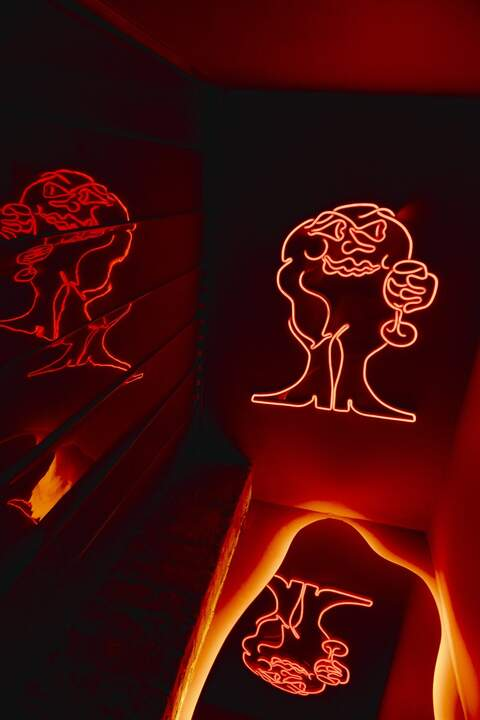
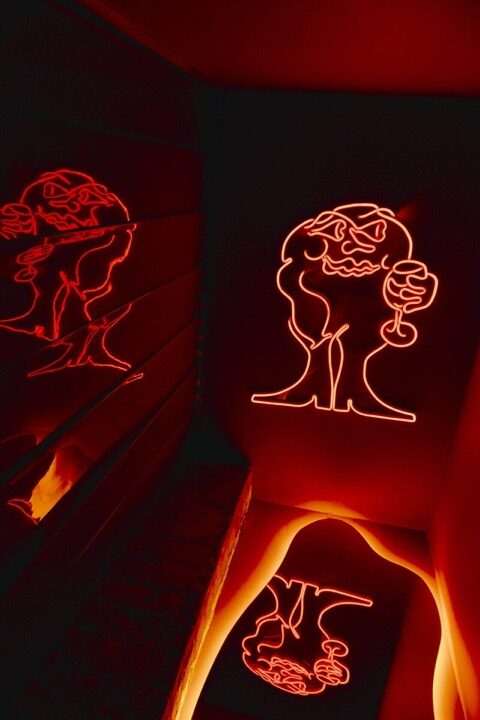
Conceito com frase NATURAL É SEXY e melhorias de galeria.
Overlay tipográfico na parede, menu CTA separado, letter-spacing global,
índice da galeria mais legível e crop por object-position nos slides de DJs.

Changed region(s): [[0.5312, 0.9167, 0.625, 0.9472], [0.6562, 0.9167, 0.7188, 0.9472], [0.125, 0.2444, 0.1562, 0.275]]

diff --git a/css/styles.css b/css/styles.css
@@ -15,7 +15,11 @@
   src: url('../public/fonts/AwesomeSerifItalic-Tall.otf') format('opentype');
   font-weight: 400; font-style: italic; font-display: swap;
 }
-
+@font-face {
+  font-family: 'Awesome Serif Italic Medium Tall';
+  src: url('../public/fonts/AwesomeSerifItalic-MediumTall.otf') format('opentype');
+  font-weight: 500; font-style: italic; font-display: swap;
+}
 :root {
   --roxo:         #4A0049;
   --rosa:         #FF888B;
@@ -30,6 +34,7 @@
   --f-display:    'Bandit Condensed', 'Arial Narrow', sans-serif;
   --f-serif:      'Awesome Serif', Georgia, serif;
   --f-italic:     'Awesome Serif Italic', Georgia, serif;
+  --f-italic-medium: 'Awesome Serif Italic Medium Tall', 'Awesome Serif Italic', Georgia, serif;
 
   --ease:         cubic-bezier(0.65, 0, 0.35, 1);
   --ease-fade:    cubic-bezier(0.45, 0.05, 0.55, 0.95);
@@ -57,6 +62,7 @@ body {
   font-family: var(--f-serif);
   font-weight: 400;
   line-height: 1.55;
+  letter-spacing: 0.02em;
   overflow-x: hidden;
 }
 img, svg { display: block; max-width: 100%; }
@@ -75,7 +81,7 @@ a:focus-visible, button:focus-visible {
 .eyebrow {
   font-family: var(--f-display);
   font-size: 0.72rem;
-  letter-spacing: 0.08em;
+  letter-spacing: 0.10em;
   text-transform: uppercase;
   color: var(--rosa);
 }
@@ -287,23 +293,37 @@ a:focus-visible, button:focus-visible {
   flex-direction: column;
   gap: 0.5rem;
   align-items: flex-end;
+  padding: 0.6rem 0.35rem 0.6rem 1.75rem;
+  background: linear-gradient(to left, rgba(10, 10, 10, 0.32) 0%, rgba(10, 10, 10, 0.1) 55%, transparent 100%);
+  border-top-right-radius: var(--radius);
+  border-bottom-right-radius: var(--radius);
+  overflow: hidden;
+  pointer-events: none;
 }
 
 .gi-btn {
   font-family: var(--f-serif);
   font-size: 0.8rem;
-  color: rgba(248, 241, 240, 0.35);
+  color: rgba(248, 241, 240, 0.92);
+  text-shadow:
+    0 1px 3px rgba(10, 10, 10, 0.6),
+    0 0 10px rgba(10, 10, 10, 0.35);
   transition: color var(--dur) var(--ease);
   padding: 0.1rem 0;
+  pointer-events: auto;
 }
-.gi-btn.is-active,
-.gi-btn:hover {
-  color: var(--ink);
+.gi-btn:hover,
+.gi-btn:focus-visible {
+  color: var(--rosa);
 }
 .gi-btn.is-active {
+  color: var(--ink);
   text-decoration: underline;
   text-underline-offset: 3px;
   text-decoration-color: var(--rosa);
+  text-shadow:
+    0 1px 4px rgba(10, 10, 10, 0.65),
+    0 0 12px rgba(10, 10, 10, 0.4);
 }
 
 .gallery-frame {
@@ -348,6 +368,18 @@ a:focus-visible, button:focus-visible {
 }
 .frame-slideshow img.is-active {
   opacity: 1;
+}
+@media (min-aspect-ratio: 3/2) {
+  .frame-slideshow img[data-object-position],
+  .frame-slideshow__placeholder[data-object-position] {
+    object-position: var(--slide-object-position, center);
+  }
+}
+@media (min-width: 1024px) and (min-aspect-ratio: 4/3) {
+  .gallery-frame[data-slug="djs"] .frame-slideshow img[data-object-position],
+  .gallery-frame[data-slug="djs"] .frame-slideshow__placeholder[data-object-position] {
+    object-position: var(--slide-object-position, center);
+  }
 }
 .frame-media img {
   width: 100%; height: 100%;
@@ -424,6 +456,28 @@ a:focus-visible, button:focus-visible {
   height: 100%;
   object-fit: cover;
   object-position: center;
+}
+.conceito__overlay {
+  position: absolute;
+  inset: 0;
+  z-index: 1;
+  display: flex;
+  align-items: center;
+  justify-content: center;
+  padding: clamp(1rem, 4vw, 2rem) var(--pad-h);
+  pointer-events: none;
+}
+.conceito__phrase {
+  font-family: var(--f-italic-medium);
+  font-style: italic;
+  font-weight: 500;
+  font-size: clamp(2rem, 6vw, 3.5rem);
+  line-height: 1.1;
+  letter-spacing: 0.16em;
+  text-transform: uppercase;
+  color: #00341c;
+  text-align: center;
+  margin: 0;
 }
 
 /* MENU */
@@ -529,7 +583,7 @@ a:focus-visible, button:focus-visible {
   font-weight: 400;
   font-size: clamp(1.2rem, 2.6vw, 1.55rem);
   line-height: 1;
-  letter-spacing: 0.02em;
+  letter-spacing: 0.04em;
   border-radius: var(--radius);
   transition: color var(--dur) var(--ease), background var(--dur) var(--ease);
 }

diff --git a/js/main.js b/js/main.js
@@ -49,16 +49,16 @@
       title: 'DJs',
       alt: 'DJs na Virtuoso',
       images: [
-        '01.jpg',
-        '003_Bossa_BW.jpg',
-        '2608GIAN_001_0473.jpg',
-        '833a35fc-4a55-4c39-8b69-085e3b027c2f.jpg',
-        'DAVE JEFFERS 2025 @davefotogram.jpg',
-        'David_4.jpg',
-        'Foto Divulgação.jpg',
+        { file: '01.jpg', objectPosition: 'center top' },
+        { file: '003_Bossa_BW.jpg', objectPosition: 'center 5%' },
+        { file: '2608GIAN_001_0473.jpg', objectPosition: 'center 5%' },
+        { file: '833a35fc-4a55-4c39-8b69-085e3b027c2f.jpg', objectPosition: 'center 8%' },
+        { file: 'DAVE JEFFERS 2025 @davefotogram.jpg', objectPosition: 'center 5%' },
+        { file: 'David_4.jpg', objectPosition: 'center 5%' },
+        { file: 'Foto Divulgação.jpg', objectPosition: 'center 5%' },
         'Foto34 @vivacquafv..jpg',
-        'hitoshi2.jpeg',
-        'WhatsApp Image 2025-05-31 at 11.13.37.jpeg',
+        { file: 'hitoshi2.jpeg', objectPosition: 'center 5%' },
+        { file: 'WhatsApp Image 2025-05-31 at 11.13.37.jpeg', objectPosition: 'center 5%' },
       ],
     },
     {
@@ -257,9 +257,24 @@
 
   initNavObservers();
 
-  function projectImages(slug, filenames) {
+  function normalizeImageEntry(entry) {
+    if (typeof entry === 'string') return { file: entry };
+    return entry;
+  }
+
+  function projectImages(slug, entries) {
     const base = `img/projetos/${slug}/`;
-    return filenames.map((name) => `${base}${encodeURIComponent(name)}`);
+    return entries.map((entry) => {
+      const { file, objectPosition } = normalizeImageEntry(entry);
+      const src = `${base}${encodeURIComponent(file)}`;
+      return objectPosition ? { src, objectPosition } : { src };
+    });
+  }
+
+  function applySlideObjectPosition(img, objectPosition) {
+    if (!objectPosition) return;
+    img.dataset.objectPosition = '';
+    img.style.setProperty('--slide-object-position', objectPosition);
   }
 
   const FULL_IMAGE_TIMEOUT_MS = 8000;
@@ -314,7 +329,7 @@
     return img.loading === 'eager' || img.getAttribute('fetchpriority') === 'high';
   }
 
-  function createSlideImage(src, alt, i, prioritizeFirstSlide) {
+  function createSlideImage(src, alt, i, prioritizeFirstSlide, objectPosition) {
     const img = document.createElement('img');
     img.src = src;
     img.alt = alt;
@@ -322,6 +337,7 @@
     img.loading = i === 0 && prioritizeFirstSlide ? 'eager' : 'lazy';
     if (i === 0 && prioritizeFirstSlide) img.fetchPriority = 'high';
     img.classList.toggle('is-active', i === 0);
+    applySlideObjectPosition(img, objectPosition);
     return img;
   }
 
@@ -339,8 +355,8 @@
     }
   }
 
-  function appendSlide(container, src, alt, i, imgs) {
-    const img = createSlideImage(src, alt, i, false);
+  function appendSlide(container, slide, alt, i, imgs) {
+    const img = createSlideImage(slide.src, alt, i, false, slide.objectPosition);
     container.appendChild(img);
     imgs.push(img);
     return img;
@@ -357,7 +373,7 @@
 
     if (prioritizeFirst) {
       if (imgs.length < 2) appendSlide(container, images[1], alt, 1, imgs);
-      preloadImage(images[1]);
+      preloadImage(images[1].src);
       scheduleIdle(() => appendFrom(2), 2000);
       return;
     }
@@ -389,15 +405,22 @@
       placeholder.loading = prioritizeFirst ? 'eager' : 'lazy';
       if (prioritizeFirst) placeholder.fetchPriority = 'high';
       placeholder.classList.add('is-active');
+      applySlideObjectPosition(placeholder, images[0].objectPosition);
       container.appendChild(placeholder);
       imgs.push(placeholder);
 
       const onFirstFull = prioritizeFirst && images.length > 1
-        ? () => preloadImage(images[1])
+        ? () => preloadImage(images[1].src)
         : null;
-      revealFullImage(placeholder, images[0], container, onFirstFull);
+      revealFullImage(placeholder, images[0].src, container, onFirstFull);
     } else {
-      const first = createSlideImage(images[0], alt, 0, prioritizeFirst);
+      const first = createSlideImage(
+        images[0].src,
+        alt,
+        0,
+        prioritizeFirst,
+        images[0].objectPosition,
+      );
       container.appendChild(first);
       imgs.push(first);
     }
@@ -406,7 +429,7 @@
 
     if (images.length <= 1) return null;
 
-    if (prioritizeFirst && images.length > 1) preloadImage(images[1]);
+    if (prioritizeFirst && images.length > 1) preloadImage(images[1].src);
 
     scheduleRemainingSlides(container, images, alt, imgs, prioritizeFirst);
     return imgs;

diff --git a/index.html b/index.html
@@ -141,9 +141,12 @@
 
   </section>
 
-  <section class="conceito" id="conceito" aria-label="Conceito">
-    <div class="conceito__media">
-      <img src="img/conceito/parede.jpg" alt="Natural é sexy" width="1920" height="741" loading="lazy" decoding="async">
+  <section class="conceito" id="conceito" aria-labelledby="conceito-heading">
+    <div class="conceito__media" aria-hidden="true">
+      <img src="img/conceito/parede.jpg" alt="" width="1920" height="741" loading="lazy" decoding="async">
+    </div>
+    <div class="conceito__overlay">
+      <p class="conceito__phrase" id="conceito-heading">Natural é Sexy</p>
     </div>
   </section>
 